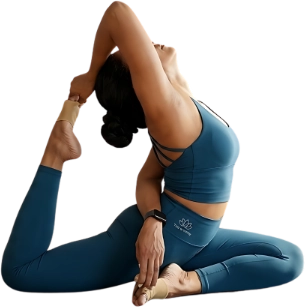
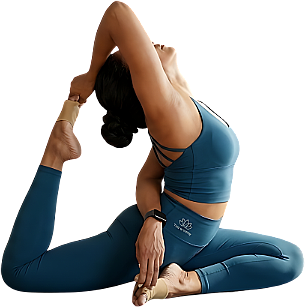
Final production polish and responsive fixes

diff --git a/src/components/hero-section.tsx b/src/components/hero-section.tsx
@@ -125,20 +125,20 @@ export function HeroSection() {
                     animate={{ opacity: 1, x: 0 }}
                     transition={{ duration: 1, delay: 0.5 }}
                     style={{ y: isMobile ? 0 : smoothY }}
-                    className="relative w-full h-[350px] lg:h-[550px] flex justify-center lg:justify-end items-center lg:pr-8"
+                    className="relative w-full h-[315px] lg:h-[495px] flex justify-center lg:justify-end items-center lg:pr-12"
                 >
                     <motion.div
-                        animate={{ y: [0, -15, 0] }}
+                        animate={{ y: [0, -12, 0] }}
                         transition={{ duration: 6, repeat: Infinity, ease: "easeInOut" }}
-                        className="relative w-full h-full max-w-[500px] transform-gpu"
+                        className="relative w-full h-full max-w-[450px] transform-gpu"
                     >
                         <Image
                             src="/assets/hero-pose.webp"
                             alt="Yoga teacher in teal outfit performing a backbend pose"
                             fill
                             priority
-                            sizes="(max-width: 1024px) 100vw, 400px"
-                            className="object-contain drop-shadow-[0_20px_40px_rgba(0,0,0,0.15)] drop-shadow-[0_8px_15px_rgba(0,0,0,0.1)] transition-all duration-700 hover:scale-[1.02]"
+                            sizes="(max-width: 1024px) 100vw, 450px"
+                            className="object-contain drop-shadow-[0_15px_30px_rgba(0,0,0,0.12)] drop-shadow-[0_5px_10px_rgba(0,0,0,0.08)] transition-all duration-700 hover:scale-[1.02]"
                         />
                     </motion.div>
                 </motion.div>
